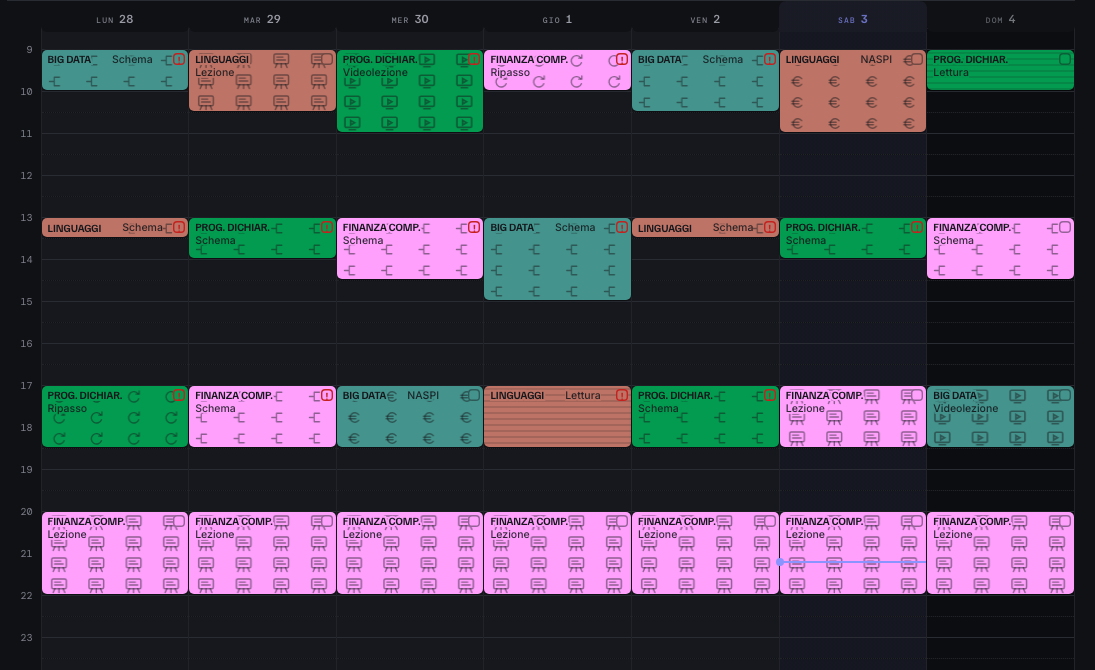
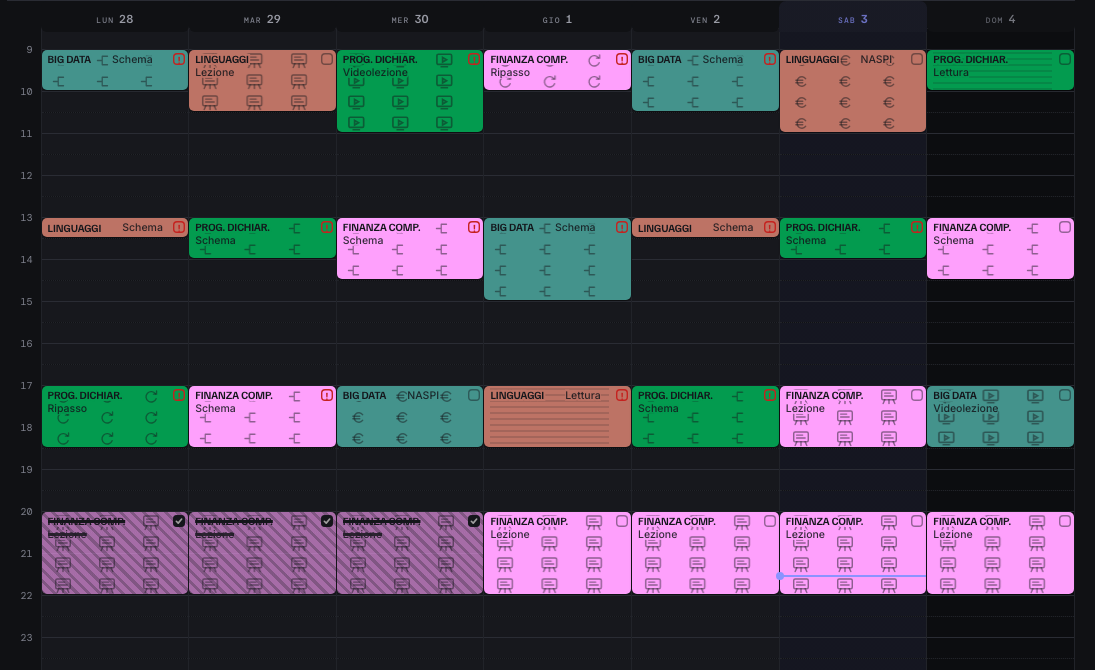
Niente sbavature intorno alla spunta, fatto piu' marcato, una figura nella mezz'ora
- A filo del blocco, la figura nell'angolo in alto a destra spuntava a
  pezzi intorno al quadratino della spunta. Il motivo ora si ferma prima
  del quadratino, alla stessa misura in tutte le file, che restano uguali.
- Fatto si vede di piu': una riga spessa e piena sul nome e
  sull'attivita', e un tratteggio fitto e scuro su tutto il blocco.
- La mezz'ora da sola ha una figura sola, nello spazio fra il nome e
  l'attivita' o subito dopo; se nella riga non c'e' posto, niente figura:
  l'attivita' e' scritta.

diff --git a/index.html b/index.html
@@ -569,7 +569,11 @@ tbody tr:last-child td.c{border-bottom:1px solid var(--line-soft)}
 .blk em{display:flex;flex-direction:column;font-style:normal;padding:4px 7px 0;
   overflow:hidden;height:100%;position:relative;z-index:1}
 /* il motivo dietro a tutto il blocco, una fila per mezz'ora */
-.blk em span.tr.tutto{position:absolute;inset:0;margin:0;flex:none;z-index:-1;min-width:0}
+/* A destra il motivo si ferma prima del quadratino della spunta: a filo, la
+   figura dell'angolo spuntava a pezzi intorno al quadratino (3 ottobre: "piccole
+   sbavature ad inizio slot in alto a destra"). La stessa misura per tutte le
+   file, cosi' restano uguali. */
+.blk em span.tr.tutto{position:absolute;inset:0 22px 0 6px;margin:0;flex:none;z-index:-1;min-width:0}
 /* Le scritte hanno un bordo pieno del colore del blocco: dove passano sopra
    una figura la coprono quanto basta a leggerle, e la figura resta al suo
    posto. L'iconcina dell'attivita' accanto al nome non serve piu': lo dice
@@ -652,15 +656,19 @@ html[data-theme="light"] .blk:hover{filter:brightness(.96)}
 /* La mezz'ora con la nota è l'unico caso che non ha una fascia libera sotto il
    testo: le due righe riempiono il blocco. Lì il motivo resta una maschera, e
    lavora in orizzontale sulla destra. */
-.blk.mini2::before{content:"";position:absolute;inset:0;z-index:0;pointer-events:none;
+.blk.mini2::before{content:"";position:absolute;inset:0 22px 0 6px;z-index:0;pointer-events:none;
   background-image:var(--tr);
   background-size:var(--trs,auto);background-repeat:var(--trr,repeat);
   background-position:var(--trp,100% 50%);
   background-position:var(--trp,0 0)}
-.blk.done{opacity:.58}
-.blk.done em b{text-decoration:line-through;text-decoration-thickness:1.5px}
-.blk.done::after{content:"";position:absolute;inset:0;pointer-events:none;
-  background:repeating-linear-gradient(45deg,rgba(0,0,0,.11) 0 4px,transparent 4px 9px)}
+.blk.done{opacity:.62}
+/* Fatto si deve vedere, e deve dare soddisfazione (3 ottobre: "la
+   barratura deve essere piu' marcata"): una riga spessa e piena sul nome e
+   sull'attivita', e un tratteggio fitto e scuro su tutto il blocco. */
+.blk.done em b,.blk.done em s i{text-decoration:line-through;text-decoration-thickness:2.5px;
+  text-decoration-color:#14161B}
+.blk.done::after{content:"";position:absolute;inset:0;pointer-events:none;z-index:2;
+  background:repeating-linear-gradient(45deg,rgba(20,22,27,.26) 0 3px,transparent 3px 8px)}
 .blk.selblk{box-shadow:0 0 0 2px var(--action),0 0 0 3px rgba(0,0,0,.3)}
 td.c .selmezz{position:absolute;z-index:3;pointer-events:none;border-radius:5px;
   box-shadow:0 0 0 2px var(--action),0 0 0 3px rgba(0,0,0,.3),inset 0 0 0 1px rgba(0,0,0,.25);
@@ -1848,7 +1856,7 @@ const SWATCHES=["#6E8BFF","#8FA4E8","#5FA8D3","#4A8FBE","#63C2C2","#4EA5A5",
    scritta nel pannello Backup: quando "mi fa ancora lo stesso" la prima
    domanda e' se il browser sta mostrando il file nuovo o uno vecchio in
    memoria — e senza questo nessuno dei due puo' rispondere. */
-const VERSIONE="3 ott 2026 · c";
+const VERSIONE="3 ott 2026 · d";
 const KEY="piano-6272-v5";
 let state={v:8,theme:"dark",piano:"LM18",year:1,ctx:"1",from:0,to:6,span:7,dayStart:0,act:"LEZ",brush:null,erase:false,
            exams:[],over:{},q:"",collapsed:{},dayClip:null,semOpen:false,blockClip:null,
@@ -5299,8 +5307,37 @@ function motivi(root){
       return;
     }
     const {FW}=figMisura(o.d);
-    if(w<FW+2){ripiego(o);return;}
-    const CW=Math.min(Math.floor(w),cellaW());
+    /* lo spazio vero e' quello della fascia, che si ferma prima della spunta */
+    const wf=o.f?o.f.getBoundingClientRect().width:w-28;
+    if(wf<FW+2){ripiego(o);return;}
+    /* la mezz'ora da sola e' diversa, e va bene cosi': una figura sola, in
+       fondo a destra prima del quadratino, accanto alle scritte */
+    if(!o.f||o.b.classList.contains("mini")){
+      const cw=Math.ceil(FW)+2,ch=Math.max(1,Math.floor(h));
+      /* subito dopo le scritte, non sotto: se dopo il nome e l'attivita' non
+         c'e' posto per una figura intera, niente figura — l'attivita' e'
+         scritta */
+      let x=null;
+      if(o.f){
+        const em=o.f.parentNode,fr=o.f.getBoundingClientRect();
+        const nb=em.querySelector(":scope > b"),ns=em.querySelector(":scope > s");
+        const rb=nb?nb.getBoundingClientRect():null,rs=ns&&ns.textContent.trim()?ns.getBoundingClientRect():null;
+        /* nello spazio fra il nome e l'attivita', se c'e'; se no dopo */
+        const a0=(rb?rb.right:fr.left)+6-fr.left,a1=(rs?rs.left:fr.right)-6-fr.left;
+        if(a1-a0>=cw)x=Math.round((a0+a1-cw)/2);
+        else{
+          const b0=(rs?rs.right:(rb?rb.right:fr.left))+6-fr.left;
+          if(b0+cw<=fr.width)x=Math.round(b0);
+          else{o.f.style.backgroundImage="none";o.b.style.setProperty("--trr","no-repeat");return;}
+        }
+      }
+      o.b.style.setProperty("--tr",cella(a,cw,ch));
+      o.b.style.setProperty("--trs",cw+"px "+ch+"px");
+      o.b.style.setProperty("--trr","no-repeat");
+      o.b.style.setProperty("--trp",x==null?"100% 50%":x+"px 50%");
+      return;
+    }
+    const CW=Math.min(Math.floor(wf),cellaW());
     o.b.style.setProperty("--tr",cella(a,CW,ROW));
     o.b.style.setProperty("--trs",CW+"px "+ROW+"px");
     o.b.style.setProperty("--trr","space repeat");
@@ -5322,7 +5359,7 @@ function figMisura(d){
 function cellaW(){
   const F=figMisura(TRDIM.LEZ).F;
   let max=0;Object.keys(TRDIM).forEach(a=>{const d=TRDIM[a];if(d[2])max=Math.max(max,F*d[0]/d[1]);});
-  return Math.round(max*1.45);
+  return Math.round(max*1.3);
 }
 /* La stessa figura, al centro di una casella piu' grande: si allarga la
    viewBox dell'SVG del motivo, cosi' la figura resta della sua misura e il
